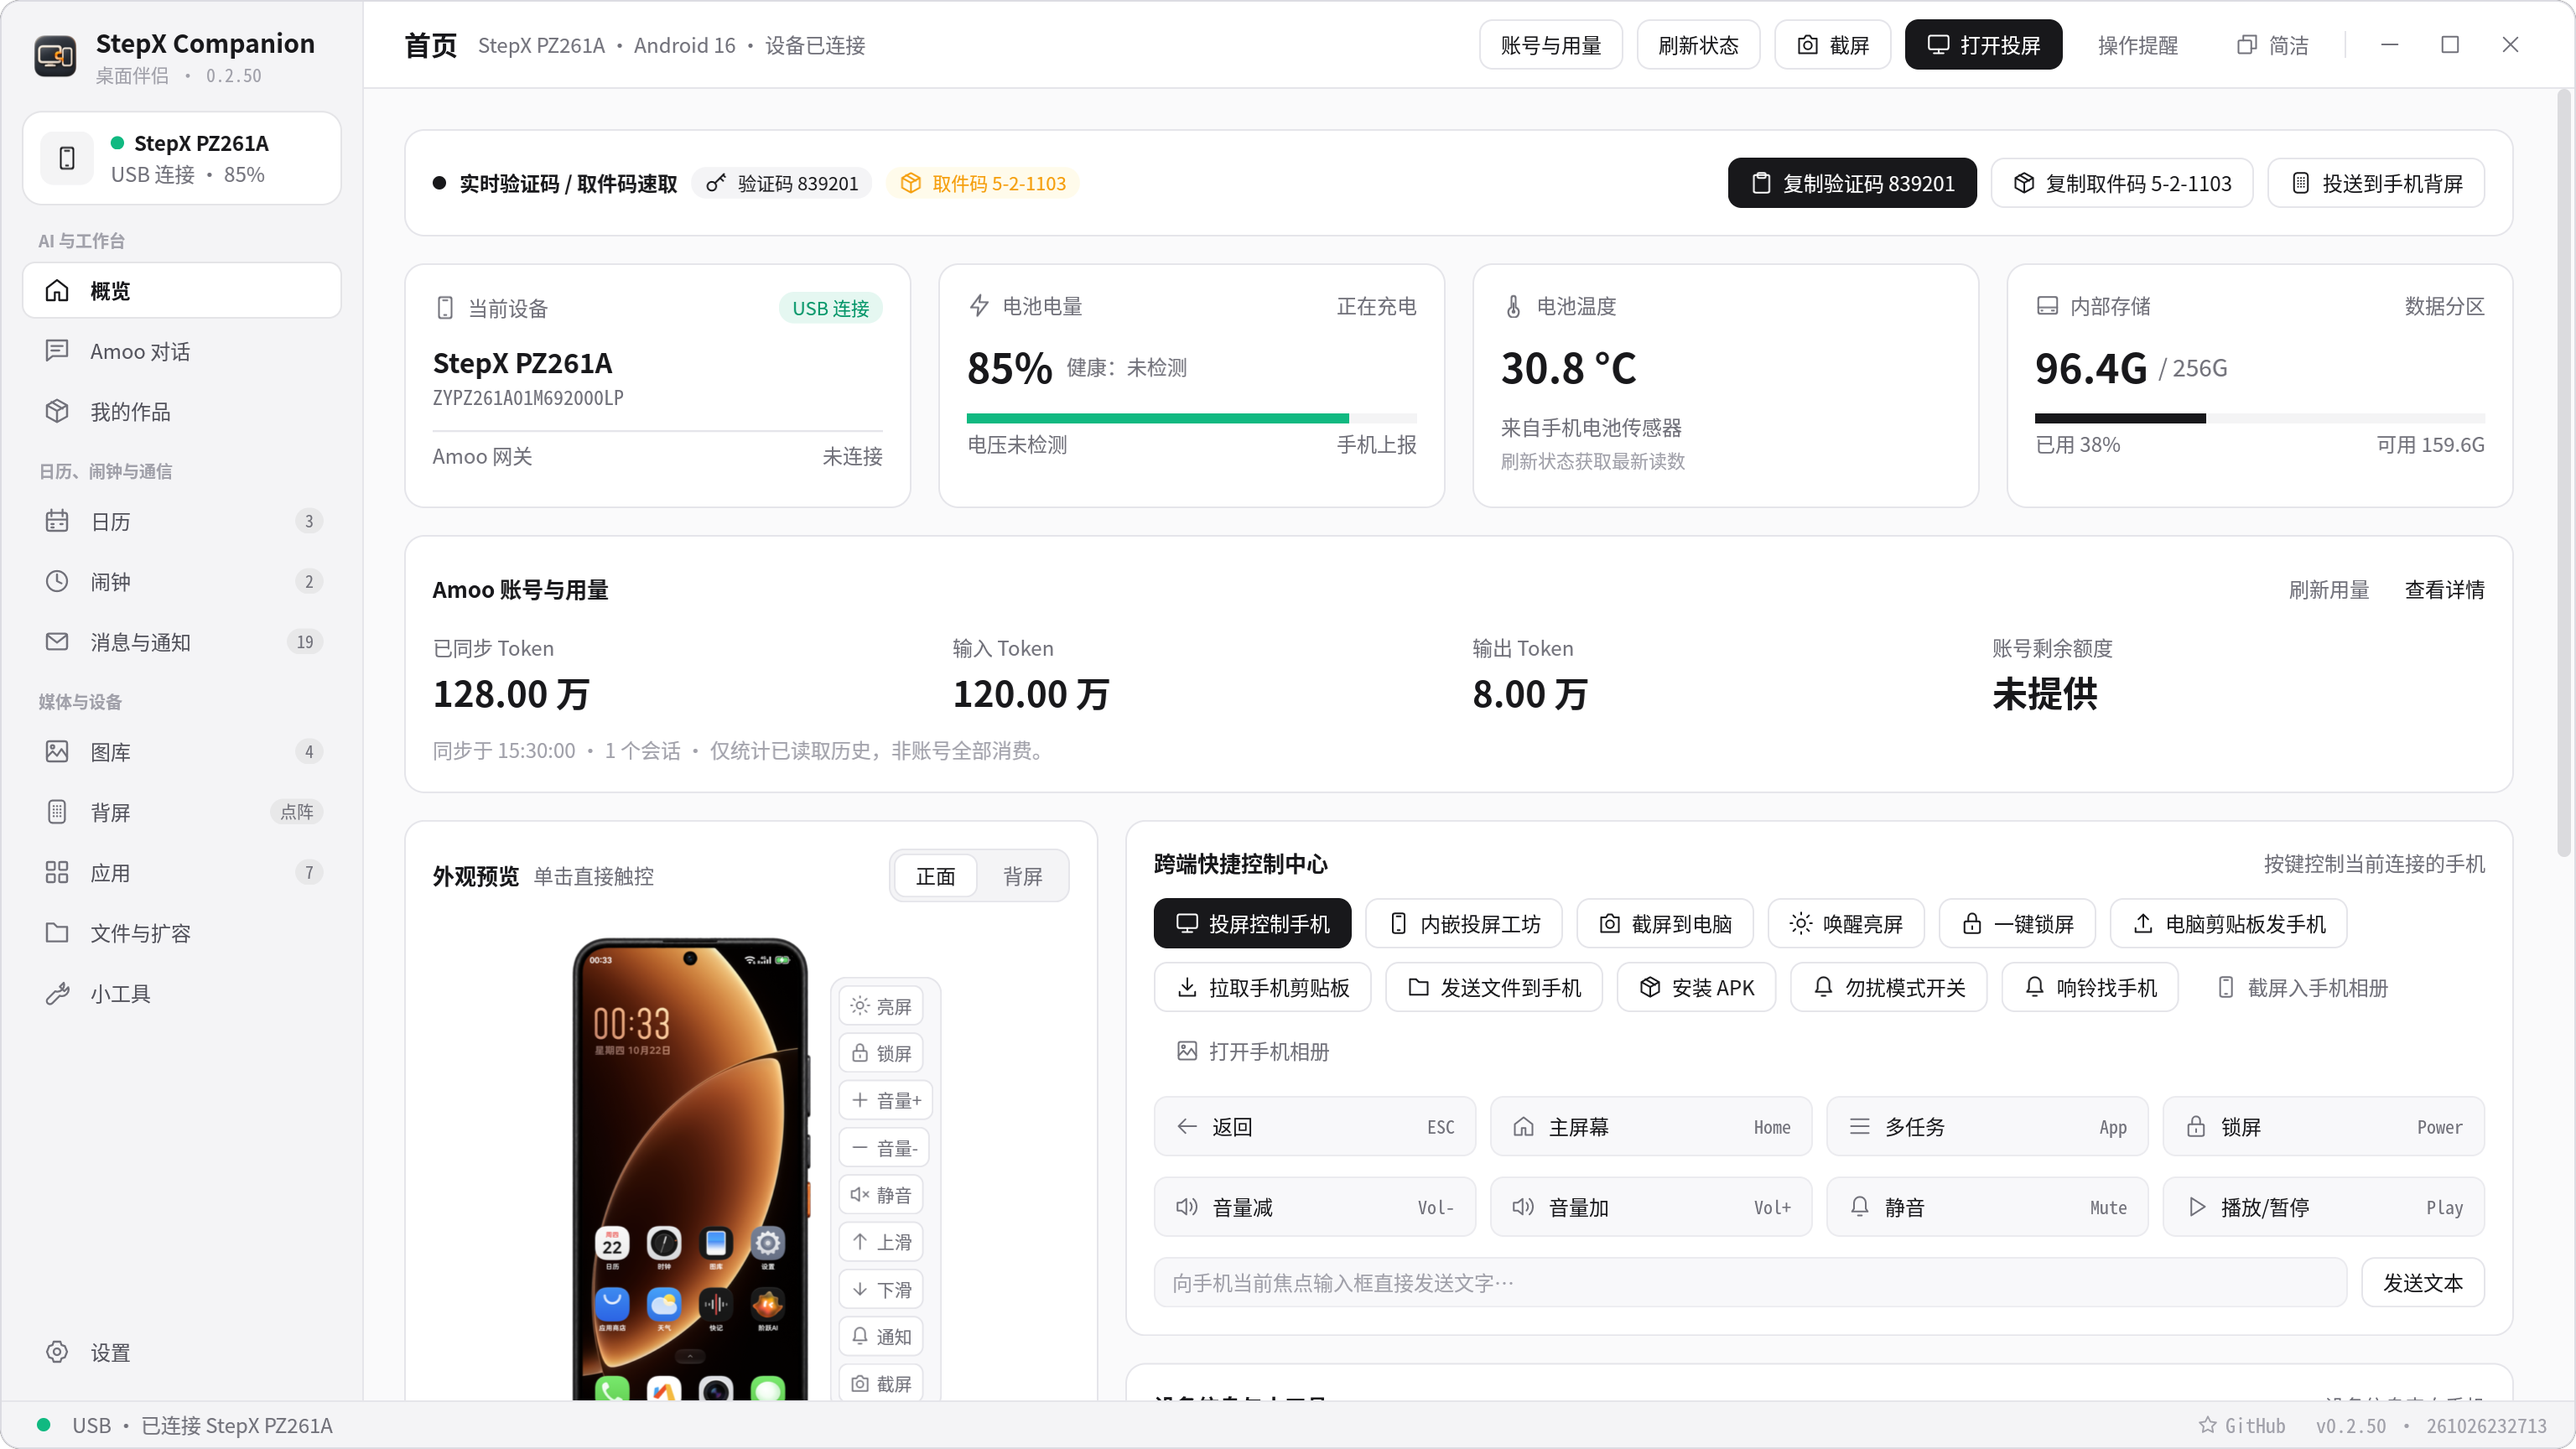
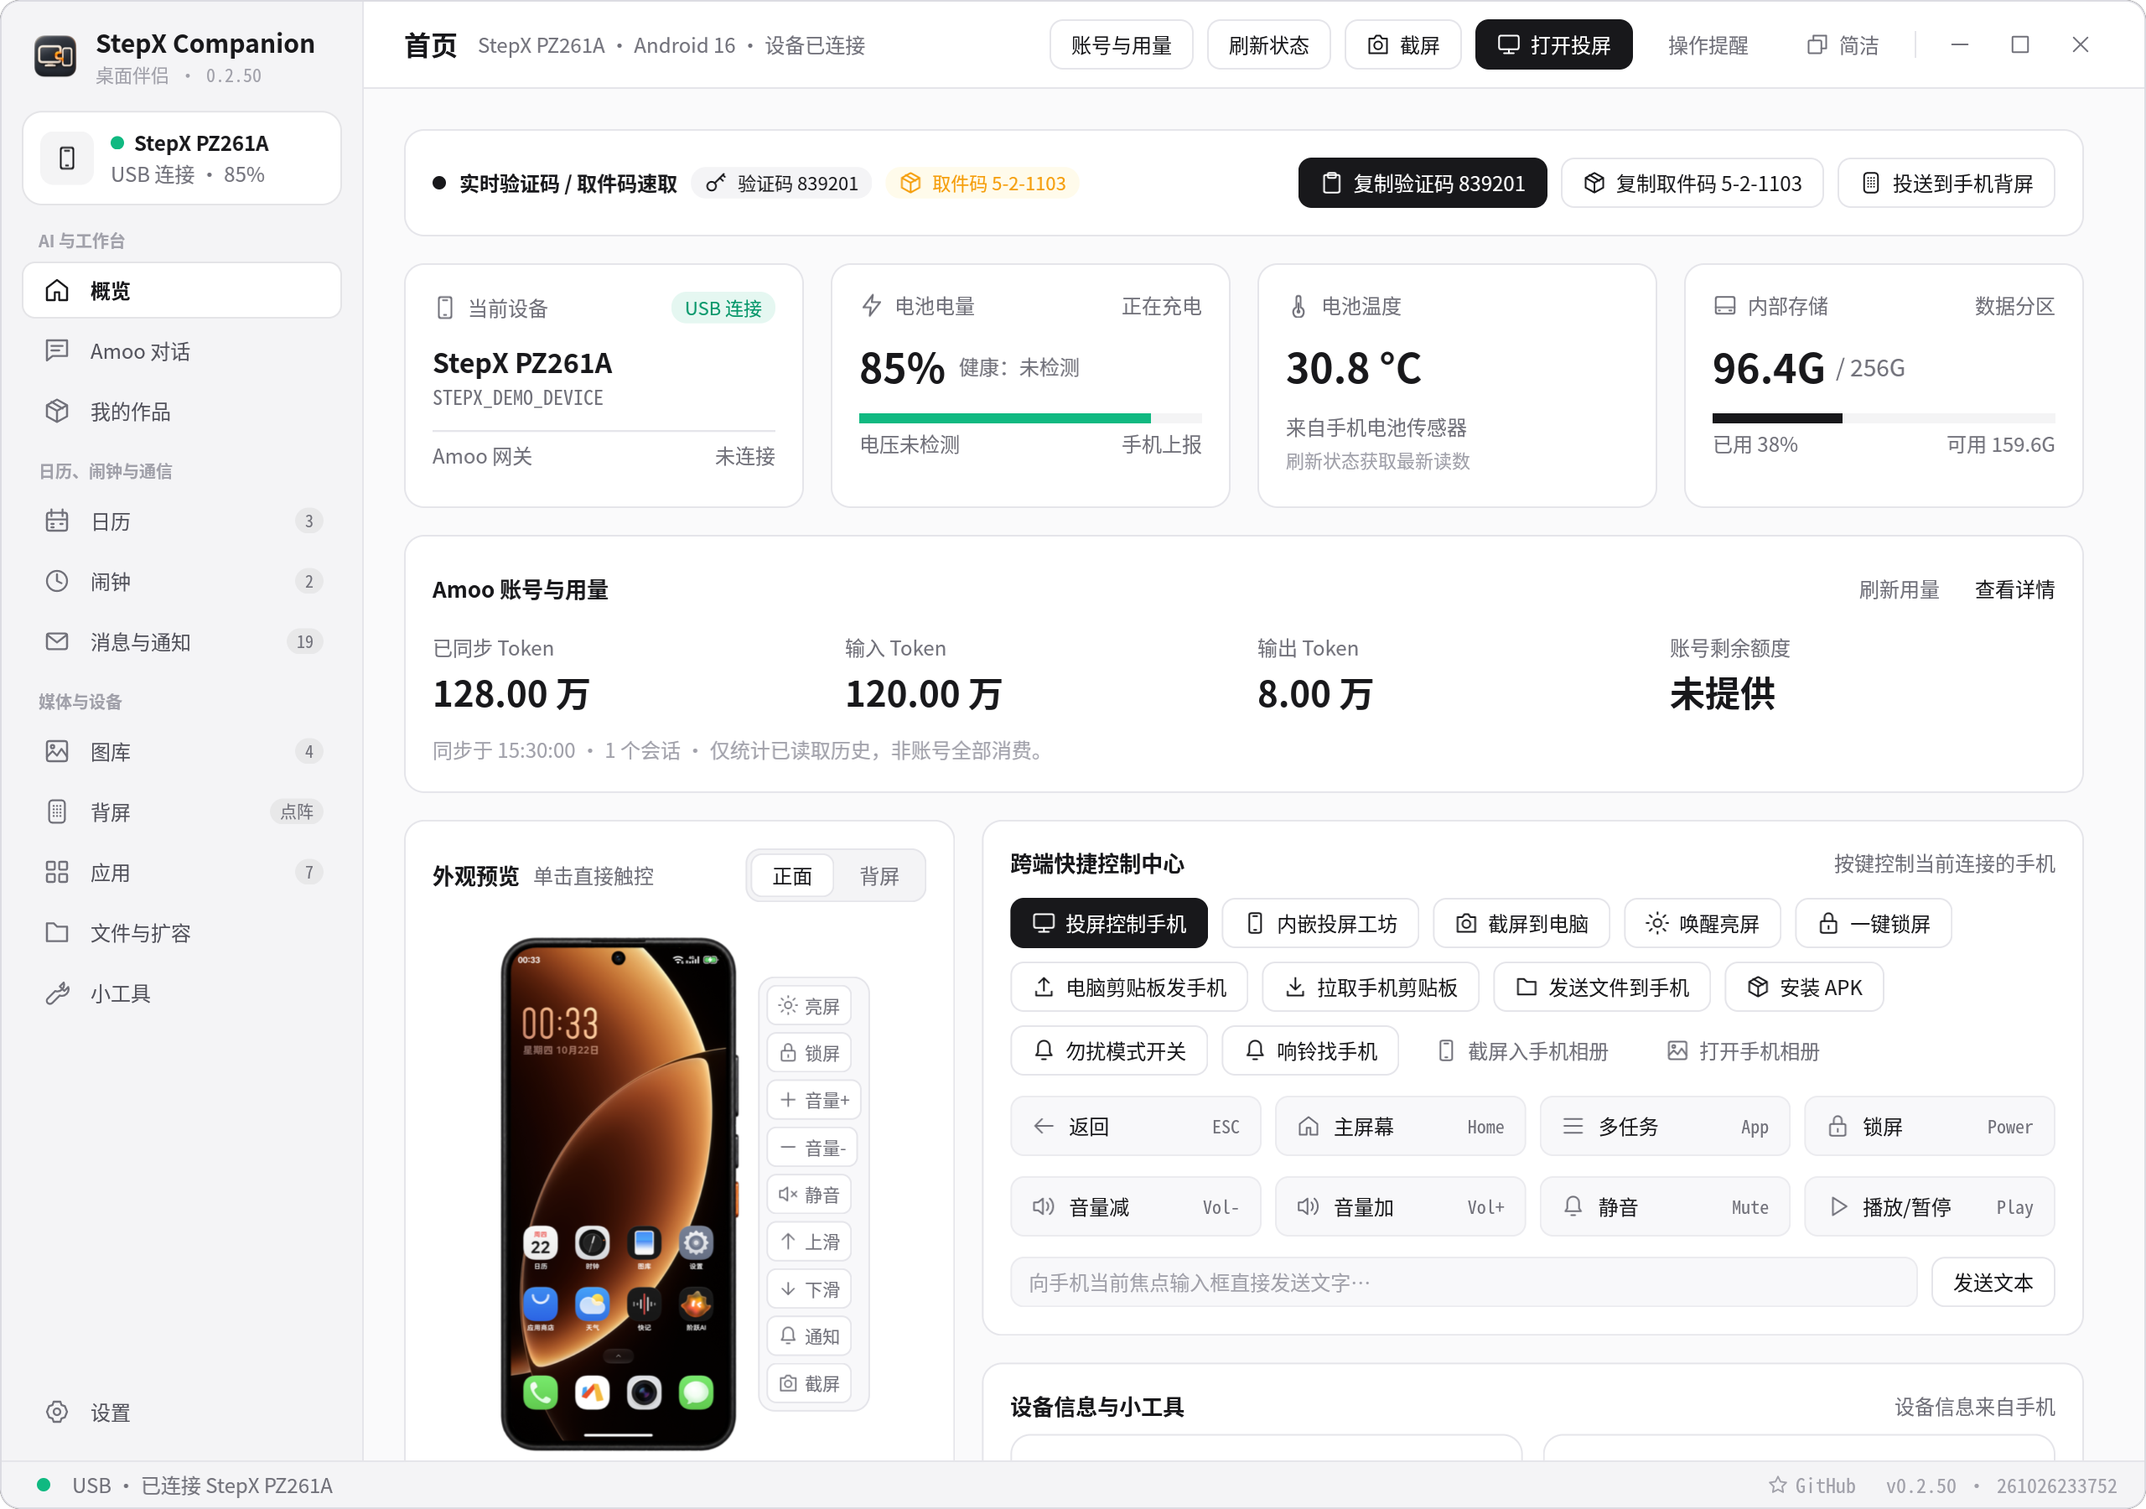
fix: preserve unsent drafts and normalize macOS preview paths

diff --git a/desktop/src/ui/work_state.rs b/desktop/src/ui/work_state.rs
@@ -2489,14 +2489,14 @@ fn insert_work_preview_memory_cache(
 fn read_work_preview(root: &std::path::Path, path: &std::path::Path) -> Result<WorkLocalPreview> {
     validate_open_path(Some(root), path)?;
     let workspace = work::Workspace::open(root)?;
-    let relative = path
+    let canonical_path = path.canonicalize()?;
+    let relative = canonical_path
         .strip_prefix(workspace.root())
         .context("文件不在工作文件夹内")?;
     let metadata = std::fs::metadata(path)?;
     anyhow::ensure!(metadata.is_file(), "请选择普通文件预览");
     let file_len = metadata.len();
     let mtime = metadata.modified().unwrap_or(std::time::UNIX_EPOCH);
-    let canonical_path = path.canonicalize().unwrap_or_else(|_| path.to_path_buf());
     if let Ok(mem) = work_preview_memory_cache().lock() {
         if let Some((cached_len, cached_mtime, cached_preview)) = mem.get(&canonical_path) {
             if *cached_len == file_len && *cached_mtime == mtime {
@@ -2754,15 +2754,15 @@ fn delimited_preview(source: &str, delimiter: char) -> String {
 }
 
 fn validate_open_path(root: Option<&std::path::Path>, path: &std::path::Path) -> Result<()> {
-    let root = root
-        .ok_or_else(|| anyhow::anyhow!("请先选择工作文件夹"))?
-        .canonicalize()?;
+    let selected_root = root.ok_or_else(|| anyhow::anyhow!("请先选择工作文件夹"))?;
+    let root = selected_root.canonicalize()?;
     anyhow::ensure!(
         path.canonicalize()?.starts_with(&root),
         "该文件已移出当前工作文件夹，请刷新"
     );
     let relative = path
-        .strip_prefix(&root)
+        .strip_prefix(selected_root)
+        .or_else(|_| path.strip_prefix(&root))
         .context("文件不在当前工作文件夹内")?;
     let mut candidate = root;
     for component in relative.components() {
@@ -2948,6 +2948,22 @@ mod preview_tests {
         let linked = root.path().join("linked.md");
         std::os::unix::fs::symlink(text, &linked).unwrap();
         assert!(read_work_preview(root.path(), &linked).is_err());
+    }
+
+    #[test]
+    #[cfg(unix)]
+    fn workspace_aliases_allow_previews_but_child_symlinks_stay_blocked() {
+        let parent = tempfile::tempdir().unwrap();
+        let real = parent.path().join("实际工作目录");
+        std::fs::create_dir(&real).unwrap();
+        let alias = parent.path().join("工作目录别名");
+        std::os::unix::fs::symlink(&real, &alias).unwrap();
+        std::fs::write(real.join("说明.md"), "# 跨平台预览").unwrap();
+        let preview = read_work_preview(&alias, &alias.join("说明.md")).unwrap();
+        assert_eq!(preview.text.as_deref(), Some("# 跨平台预览"));
+        assert!(read_work_preview(&alias, &real.join("说明.md").canonicalize().unwrap()).is_ok());
+        std::os::unix::fs::symlink(real.join("说明.md"), real.join("内部链接.md")).unwrap();
+        assert!(read_work_preview(&alias, &alias.join("内部链接.md")).is_err());
     }
 
     #[test]

diff --git a/desktop/src/ui/workspace_state.rs b/desktop/src/ui/workspace_state.rs
@@ -371,7 +371,12 @@ impl Companion {
             .collect::<Vec<_>>();
         self.workspace.last_draft = (draft.clone(), paths.clone());
         if self.workspace.active.is_none() {
-            return;
+            if draft.trim().is_empty() && paths.is_empty() {
+                return;
+            }
+            // A new conversation is lazy until it has actual input. Persist
+            // that input before history/window switches, even before sending.
+            self.workspace_ensure_task();
         }
         let intent = self.workspace.intent;
         if let Some(task) = self.workspace_task_mut() {
@@ -2080,6 +2085,8 @@ impl Companion {
         self.workspace_persist();
     }
     pub(super) fn workspace_toggle_history(&mut self) {
+        self.workspace_capture_draft();
+        self.workspace_persist();
         self.amoo_ui.screen_mode = false;
         let compact = self.push.shell_mode != ShellMode::Full;
         if !is_verification_harness() && !compact && self.workspace.viewport.x() >= 1000.0 {
@@ -5004,6 +5011,24 @@ mod tests {
             );
             let _ = std::fs::remove_dir_all(&nonexistent_ws);
         }
+    }
+
+    #[test]
+    fn unsent_new_conversation_preserves_draft_on_history_and_session_switch() {
+        let mut app = Companion::new_for_test();
+        app.demo_mode = true;
+        app.workspace_switch_new().unwrap();
+        assert!(app.workspace.active.is_none());
+        app.workspace_capture_draft();
+        assert!(app.workspace.active.is_none(), "empty welcome must not create history");
+        app.fields[F_AMOO].set("尚未发送的中文草稿\n第二行保持原样");
+        app.workspace_toggle_history();
+        let id = app.workspace.active.clone().expect("unsent input has a draft record");
+        app.workspace_switch_new().unwrap();
+        app.fields[F_AMOO].set("第二条草稿");
+        app.workspace_select_task(&id).unwrap();
+        assert_eq!(app.fields[F_AMOO].text, "尚未发送的中文草稿\n第二行保持原样");
+        assert!(app.workspace.journal.tasks.iter().any(|t| t.draft == "第二条草稿"));
     }
 
     #[test]

diff --git a/docs/CROSS_PLATFORM_0_2_50.md b/docs/CROSS_PLATFORM_0_2_50.md
@@ -28,7 +28,9 @@
 - 清理四项依赖特定相册、固定序列号和开发机目录的测试，改为显式选择设备的只读验收；普通单元测试不写个人会话。
 - 截图验收程序仅编入测试功能构建，不进入正式发行版；保留公开 UI 框架已有 macOS Clipboard 适配。
 - 移除系统维护脚本默认指向开发者手机的行为，要求明确选择设备。
-- 本机自动化：Rust 核心 279 通过 / 1 忽略，契约 25 通过，桌面交互状态 99 通过 / 2 忽略，Python 403 通过；开机恢复/重连/运行时另 15 项通过。
+- 本机自动化：Rust 核心 279 通过 / 1 忽略，契约 25 通过，桌面交互状态 101 通过 / 2 忽略，Python 403 通过；开机恢复/重连/运行时另 15 项通过。
+- 窗口回归：简洁与完整模式共 9 种尺寸（360×480 至 1600×1000），长中文输入、图片/CSV 预览、混合附件、会话与草稿切换全部通过；欢迎页输入框位移为 0。
+- 修复未发送的新会话草稿在切换时丢失，以及 macOS 临时目录路径别名导致合法文件无法预览的问题；工作目录内部的符号链接仍被拒绝。
 - 四平台 CI 与最终安装包核验将在发布前补充到本文件；未完成项不会标记为通过。
 
 手机数据备份、日志中的账号与会话、签名私钥和模型密钥不进入公开仓库。页面宣传截图使用演示数据并标注，不作为真机执行证据。

diff --git a/docs/RELEASE_NOTES.md b/docs/RELEASE_NOTES.md
@@ -28,3 +28,9 @@
 - 普通对话默认沿用手机 Amoo 账号；自有模型与 GUI Agent 的模型服务分别配置、分别计费。公开伴侣包不包含许可未明确的 Neo 执行引擎。
 
 [0.2.25 → 0.2.50 变更对照](UPDATE_0_2_50.md) · [完整更新日志](../CHANGELOG.md) · [项目首页](https://github.com/xydzf520/stepx)
+
+## 发布前回归修复
+
+- 未发送的新对话，打开历史记录或切换会话前会保存草稿和附件。
+- 修复 macOS 工作文件预览的路径别名处理，保留工作目录范围与符号链接检查。
+- 9 种窗口尺寸覆盖长中文、混合附件、预览与会话切换。

diff --git a/CHANGELOG.md b/CHANGELOG.md
@@ -2,6 +2,8 @@
 
 ## 0.2.50 · 2026-10-26
 
+- 发布前回归：修复未发送草稿切换丢失和 macOS 路径别名导致文件预览失败；9 种窗口尺寸验证通过。
+
 累计包含 0.2.25 之后的开发改动。本轮公开发行重点：
 
 - Amoo 流式回复、任务识别、普通聊天切换、成果预览与继续编辑；修复继续修改应用时工作目录不存在的错误。
